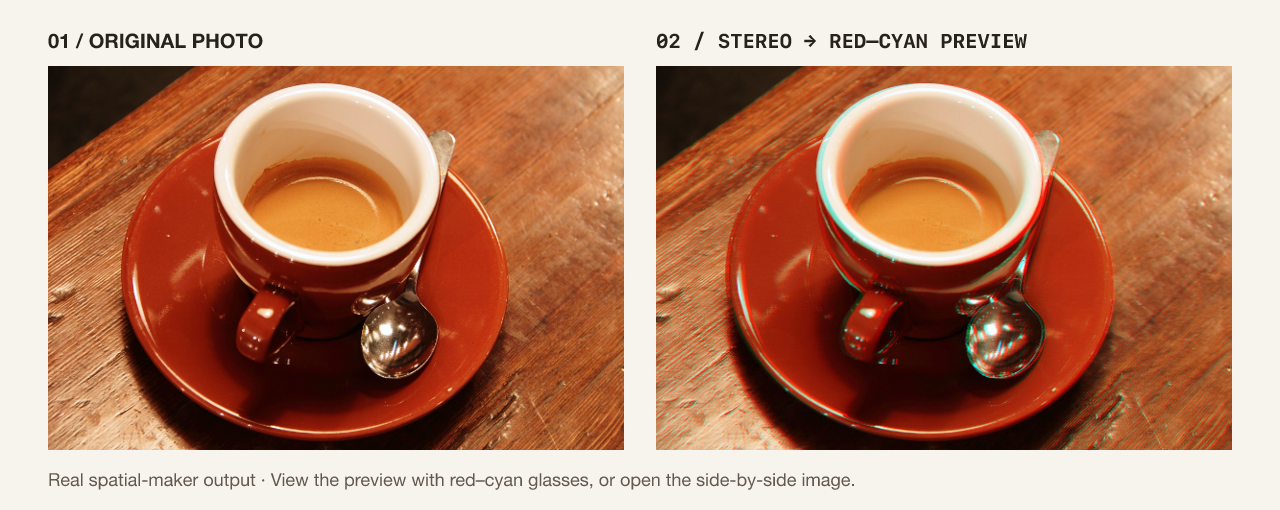
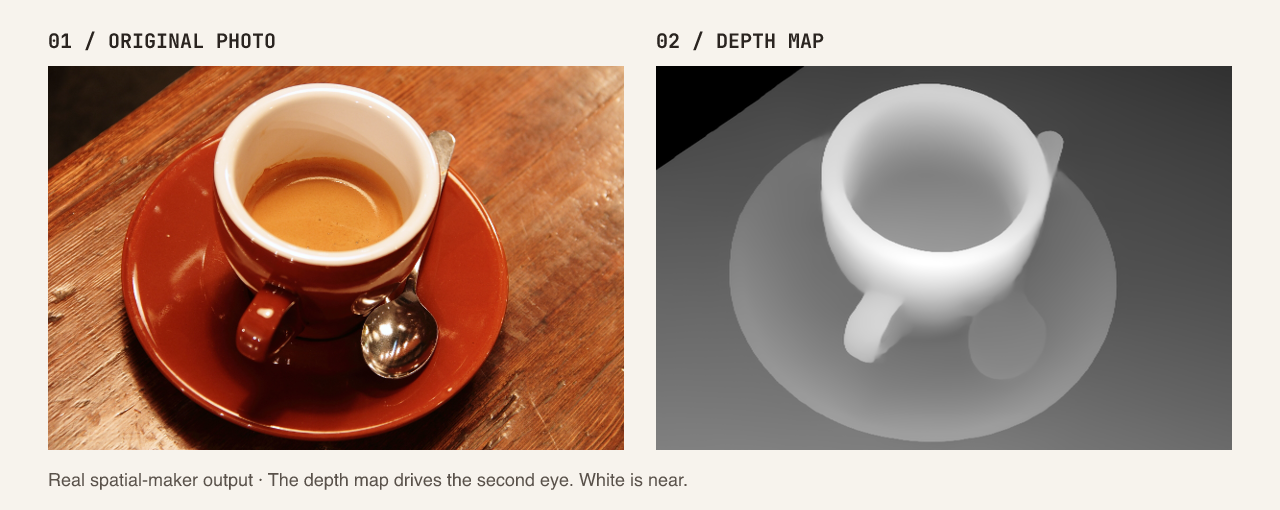
docs: show the depth map beside the original in the headset section
The red-cyan preview looked like the original at README size, so it showed nothing.

diff --git a/docs/media/README.md b/docs/media/README.md
@@ -30,20 +30,9 @@ spatial-maker coffee.png -m s --output-types spatial,sbs --force
 
 `conversion.gif` was rendered with agg 1.9.0 at 90 columns, 14 rows, 14 px type, GitHub dark theme, a 10 fps cap, and idle gaps limited to one second. Processing frames are real; playback compresses idle time.
 
-## Preview images
+## Depth comparison
 
-`hero.png` places the original photo beside a red–cyan anaglyph made from the actual side-by-side output. Red goes to the left eye, cyan to the right. The anaglyph is a documentation preview, not an output format of spatial-maker. It was made with ffmpeg:
-
-```sh
-INPUT="$PWD/docs/media/coffee-sbs.png"
-OUTPUT=/tmp/spatial-demo/coffee-anaglyph.png
-```
-
-```sh
-ffmpeg -i "$INPUT" -vf stereo3d=sbsl:arcc -frames:v 1 -y "$OUTPUT"
-```
-
-`hero.png` was rasterized from SVG with resvg; no generated or retouched stereo result was substituted.
+`hero.png` places `coffee.png` beside `coffee-depth.png`, the real depth output described below. White is near. It was composed as an SVG and rasterized with resvg; the depth map is unmodified.
 
 ## 3D box hero
 

diff --git a/README.md b/README.md
@@ -43,9 +43,9 @@ People with a Vision Pro (or any spatial-photo viewer) who want their existing p
 
 The hero above only simulates depth on a flat screen. The real output is a stereo pair: download the [spatial HEIC](docs/media/coffee-spatial.heic) and open it on a spatial-photo viewer.
 
-![Before and after: a coffee photo beside a red–cyan preview of the converted stereo pair](docs/media/hero.png)
+![A coffee photo beside the depth map spatial-maker estimates from it](docs/media/hero.png)
 
-No headset needed to inspect the [side-by-side image](docs/media/coffee-sbs.png). For the anaglyph above, use red–cyan glasses (red on the left). Photo: Rachel Michetti, CC0, courtesy of Pikolo Espresso Bar via scikit-image. [Source, exact commands, and preview details](docs/media/README.md).
+No headset needed to inspect the [side-by-side image](docs/media/coffee-sbs.png), the two eye views the depth map produces. Photo: Rachel Michetti, CC0, courtesy of Pikolo Espresso Bar via scikit-image. [Source, exact commands, and preview details](docs/media/README.md).
 
 ## Built with
 
